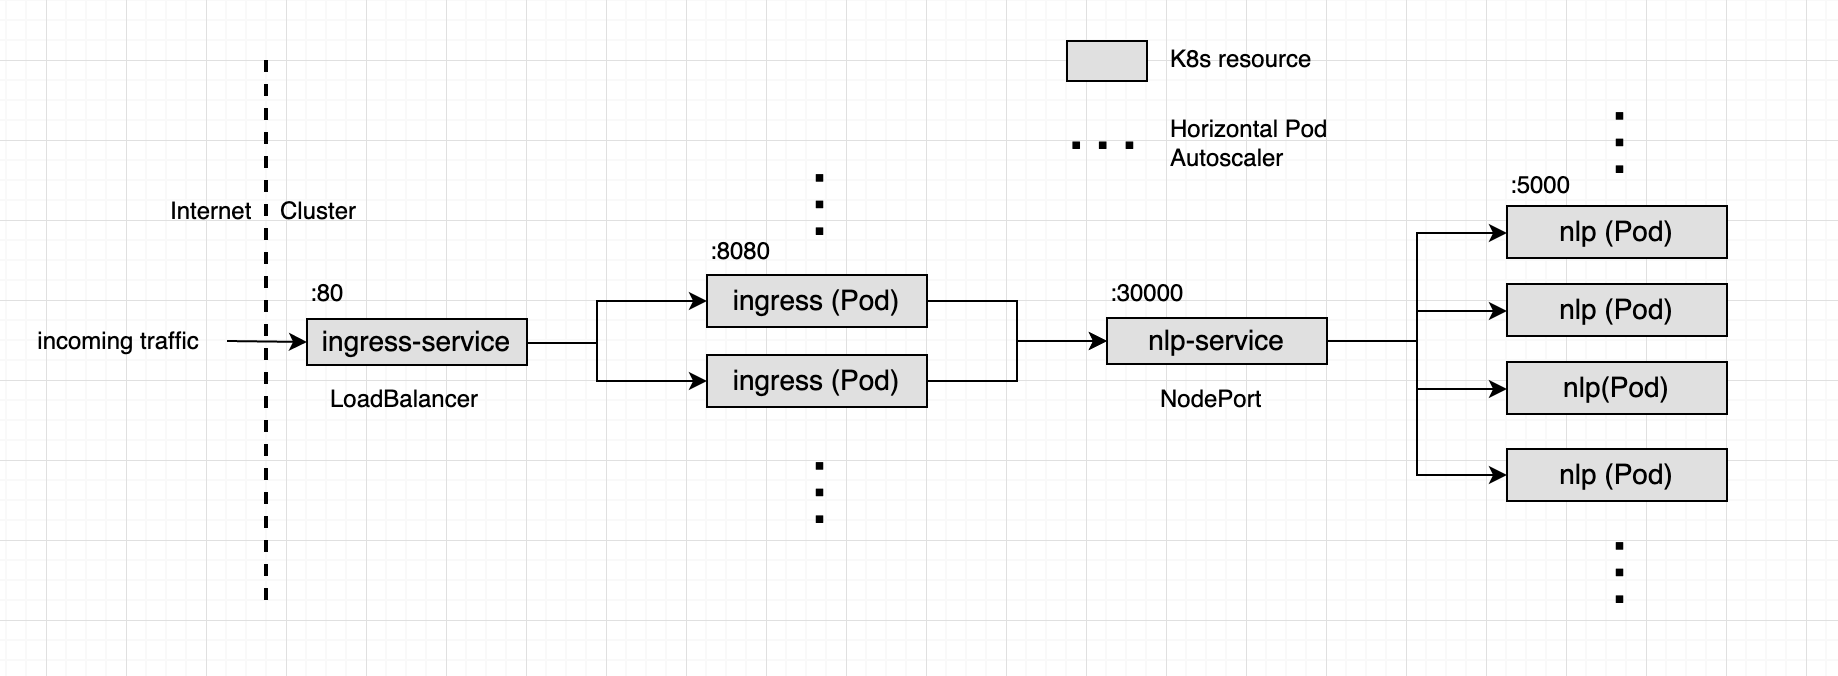
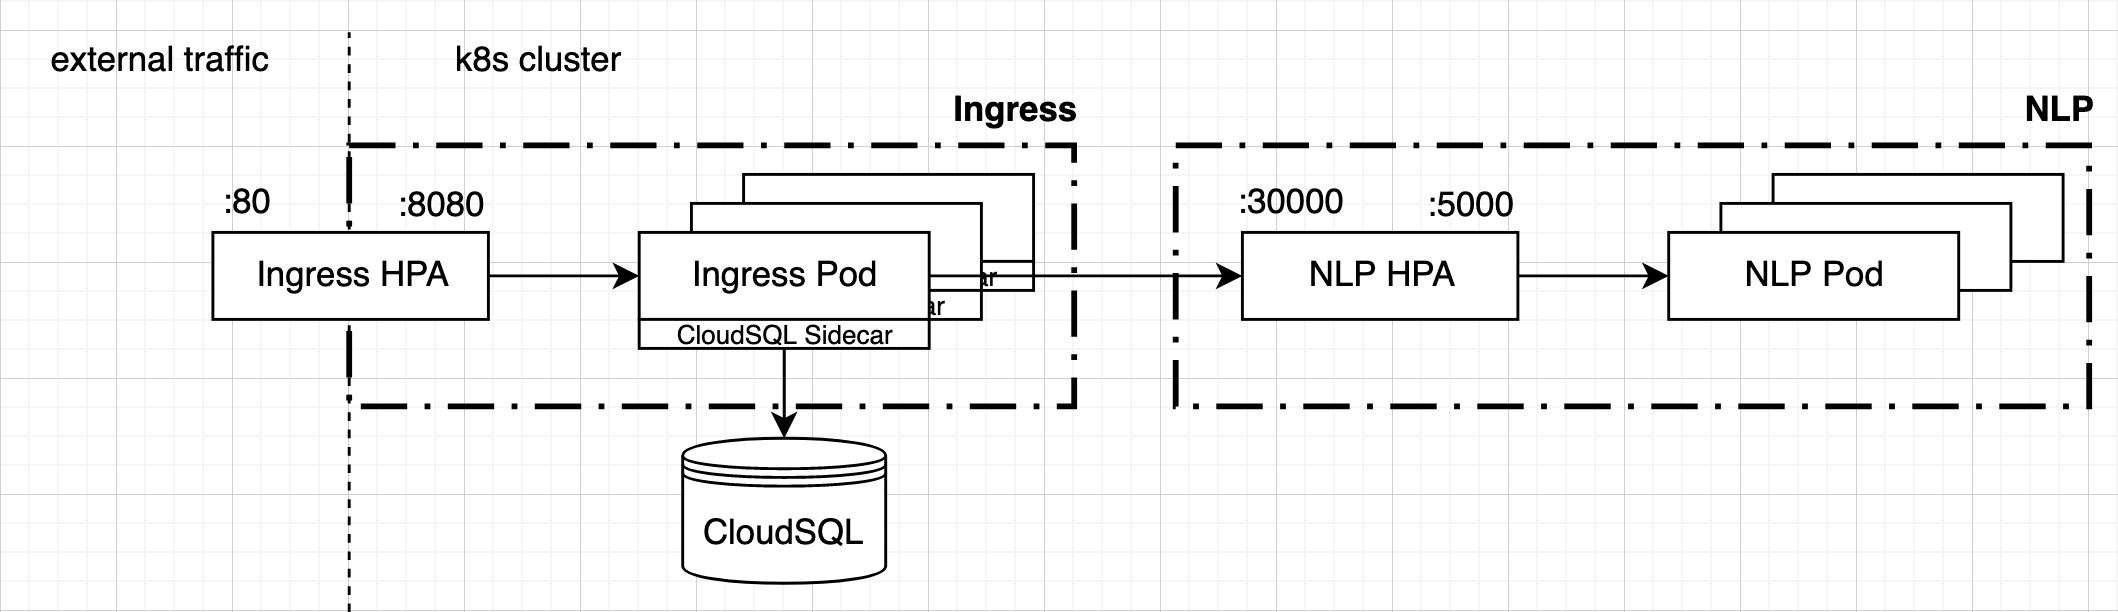
[020] improve readme (#46)
* fixed static ip

* improve readme

diff --git a/README.md b/README.md
@@ -1,16 +1,17 @@
 # reflect-nlp
 
-[![CircleCI](https://circleci.com/gh/jackyzha0/reflect-nlp.svg?style=svg)](https://circleci.com/gh/jackyzha0/reflect-nlp)
+[![CircleCI](https://circleci.com/gh/jackyzha0/reflect-nlp.svg?style=svg)](https://circleci.com/gh/jackyzha0/reflect-nlp) [![](http://godoc.org/github.com/jackyzha0/reflect-nlp/ingress?status.svg)](http://godoc.org/github.com/jackyzha0/reflect-nlp/ingress) [![Go Report Card](https://goreportcard.com/badge/github.com/jackyzha0/reflect-nlp)](https://goreportcard.com/report/github.com/jackyzha0/reflect-nlp)
 
-The backend of reflect which determines intent validity and does stats collection. <br>
+The backend of reflect which determines intent validity and does stats collection.
 [the main repo.](https://github.com/jackyzha0/reflect-chrome)
 
 
-![Our K8s cluster explained](readme_sources/diagram.png)
+![K8s cluster](readme_sources/diagram.png)
 
 Anything related to the ingress controller can be found in `/ingress`. All the NLP stuff can be found in `/nlp`.
 
-### Docker build instructions
+### Local Docker build instructions
+Note: There is no need to do this when deploying as the Docker images will be rebuilt by `CircleCi`.
 1. Build ingress proxy image: `docker build -t jzhao2k19/reflect-nlp-ingress:latest ingress`
 2. Build NLP model image: `docker build -t jzhao2k19/reflect-nlp:latest nlp`
 3. Push both Docker Images to Docker Hub
@@ -39,11 +40,11 @@ To see if this is done successfully, run `kubectl get pods`. It should give you 
 ```bash
 ➜ kubectl get pods
 NAME                           READY   STATUS    RESTARTS   AGE
-ingress-54f9b89fc4-nxl47       1/1     Running   0          5m
+ingress-54f9b89fc4-nxl47       2/2     Running   0          5m
 nlp-5f77b4946-vs4l2            1/1     Running   0          5m
 ```
 
-Wait a few minutes for the LoadBalancer to be assigned an external IP address, then run `kubectl get svc` to list running services.
+Note that `ingress` has `2/2` pods as there is a CloudSQL sidecar. Wait a few minutes for the LoadBalancer to be assigned an external IP address, then run `kubectl get svc` to list running services.
 
 ```bash
 ➜ kubectl get svc
@@ -72,6 +73,9 @@ To test if everything is healthy, run `minikube service ingress-service` which w
 	"modelAlive": true
 }
 ```
+
+### Exporting intents
+Local logged intents can be exported as a CSV by hitting `/export`. This endpoint is rate-limited.
 
 ### Running the NLP Model
 This project depends on a bunch of Python libraries. Install them by doing `pip install sklearn keras pandas numpy matplotlib` <br>
